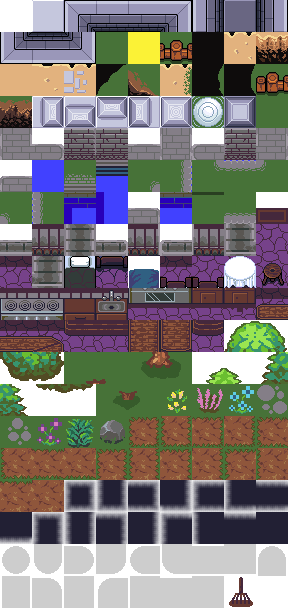
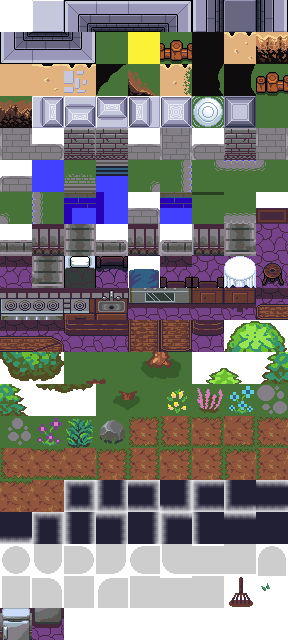
Add fridge tiles

diff --git a/PitHero/Content/Tilemaps/PitHeroTiles.tsx b/PitHero/Content/Tilemaps/PitHeroTiles.tsx
@@ -1,4 +1,4 @@
 <?xml version="1.0" encoding="UTF-8"?>
-<tileset version="1.10" tiledversion="1.11.2" name="PitHeroTiles" tilewidth="32" tileheight="32" tilecount="171" columns="9">
- <image source="PitHeroTiles.png" width="288" height="608"/>
+<tileset version="1.10" tiledversion="1.11.2" name="PitHeroTiles" tilewidth="32" tileheight="32" tilecount="180" columns="9">
+ <image source="PitHeroTiles.png" width="288" height="640"/>
 </tileset>